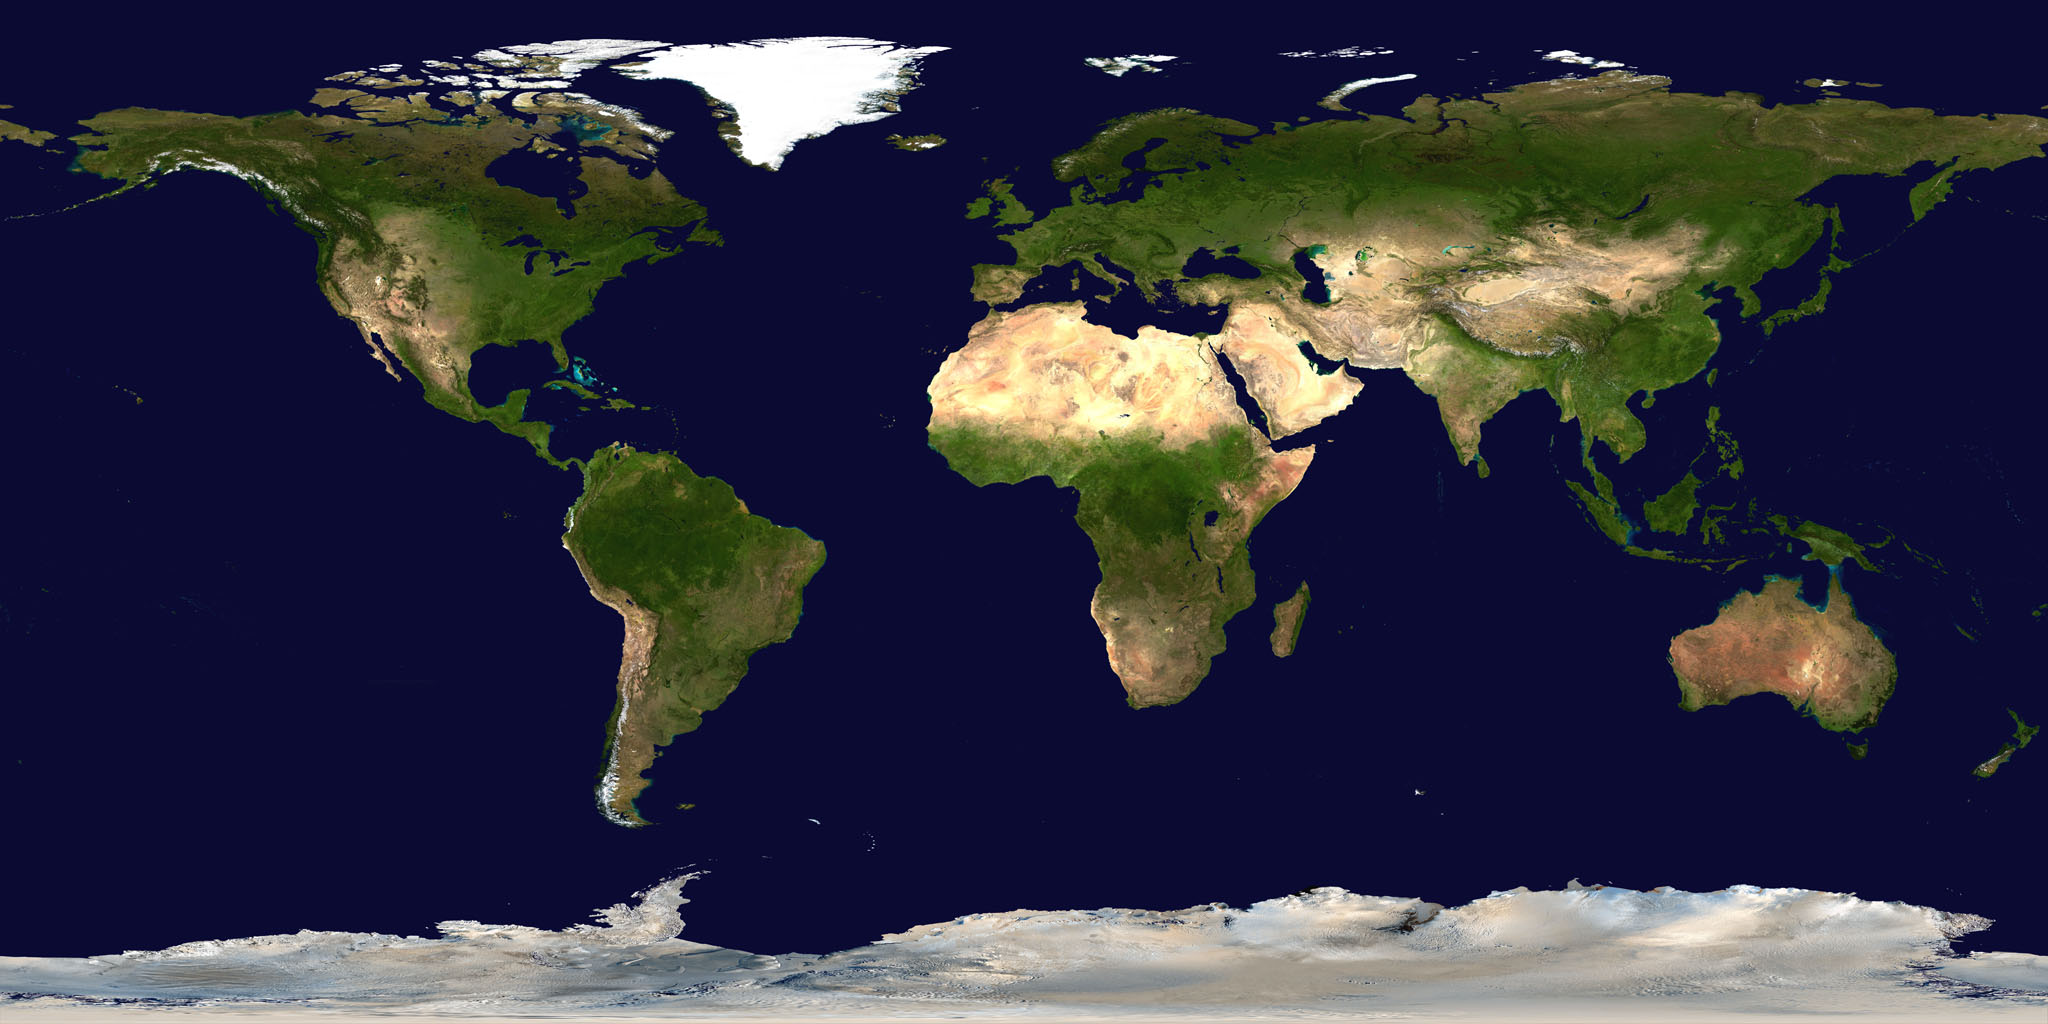
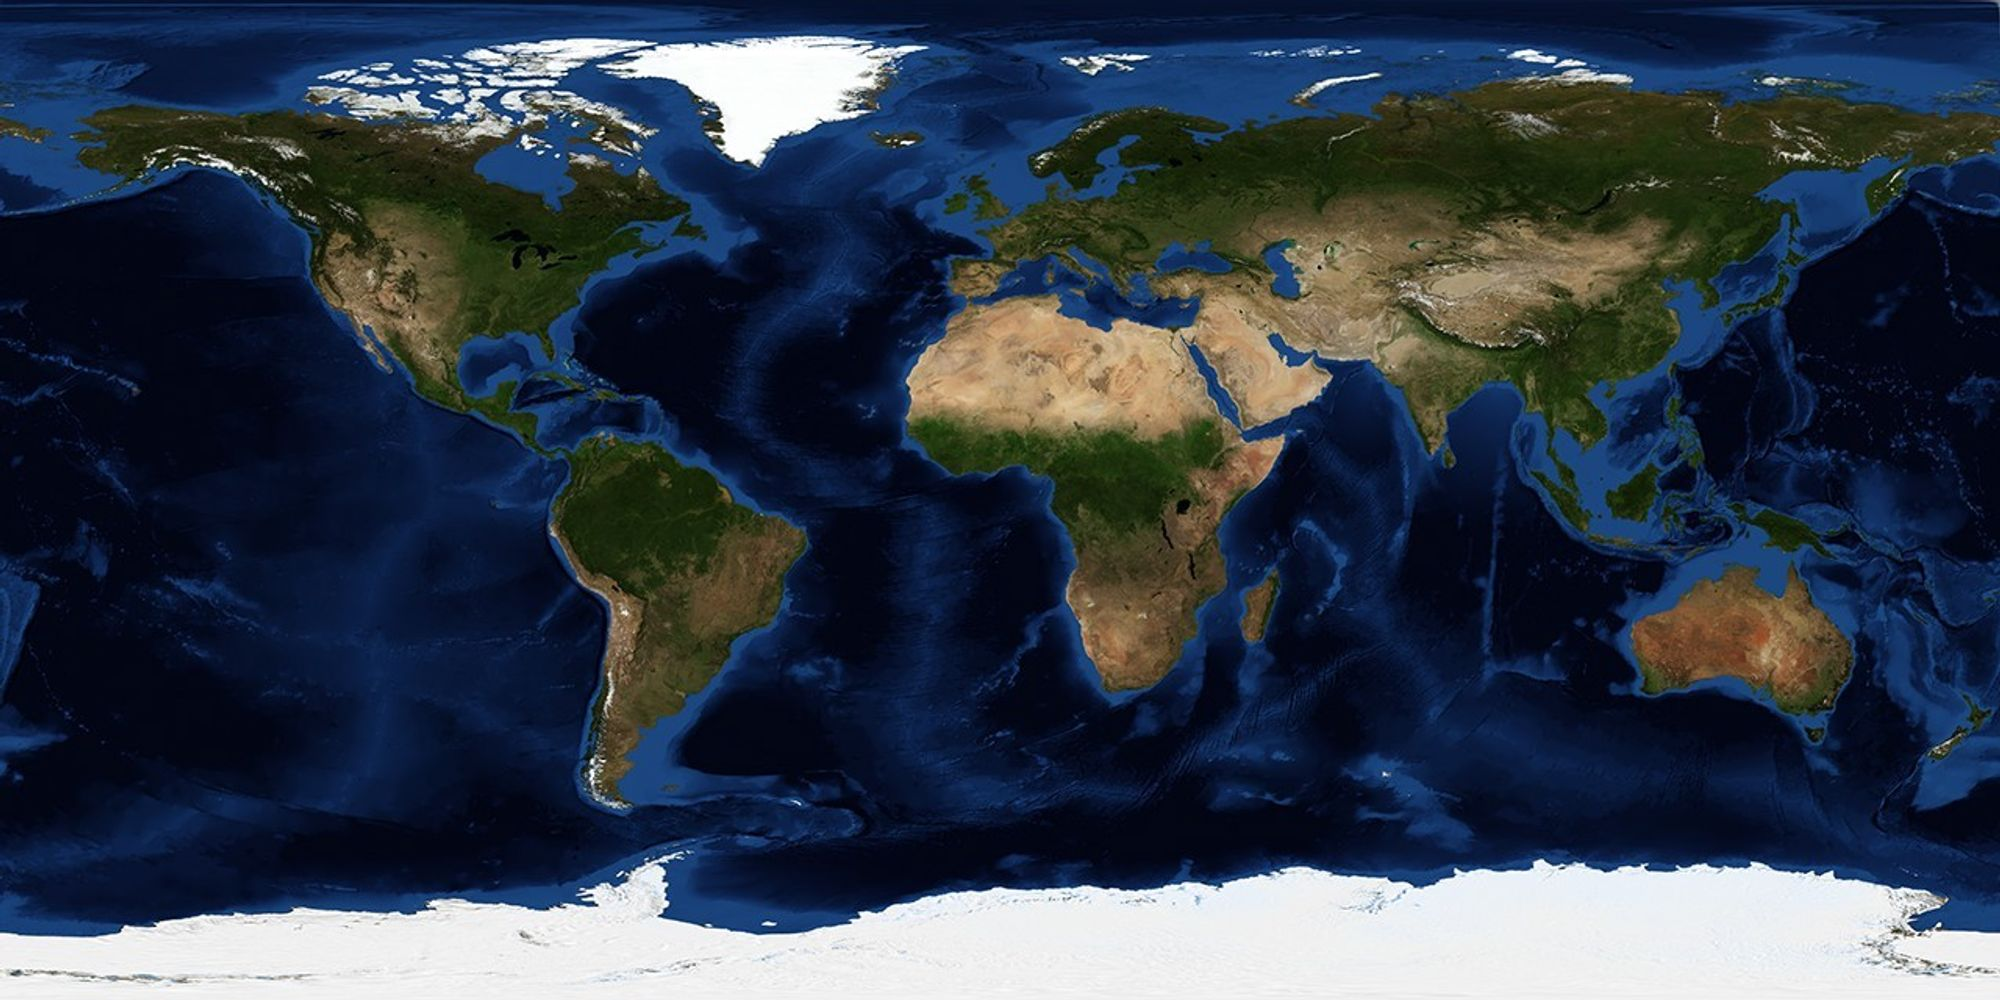
chore: use scripts/verify.ps1 as the verify gate, swap in a more realistic earth texture
- Remove the redundant root-level verify.ps1 from the previous round —
  scripts/verify.ps1 (pub get + gen-l10n + format + analyze + test,
  already in the repo) is the real one.
- Fix a pre-existing trailing-comma lint in
  journal_entry_presentation_sheet_test.dart, unrelated to this round's
  changes but caught by the full verify gate.
- earth_day.jpg swapped for a texture with real bathymetry/terrain
  shading (closer to a satellite-imagery look) — already staged in the
  working tree when this round started; committing it now.

diff --git a/test/widget/journal/journal_entry_presentation_sheet_test.dart b/test/widget/journal/journal_entry_presentation_sheet_test.dart
@@ -114,7 +114,8 @@ void main() {
     expect(find.byType(PageView), findsOneWidget);
   });
 
-  testWidgets('multi-entry: swiping changes the visible entry and fires '
+  testWidgets(
+      'multi-entry: swiping changes the visible entry and fires '
       'onPageChanged', (tester) async {
     int? lastPage;
     await _open<void>(
@@ -152,9 +153,11 @@ void main() {
       entries: [_e('a', summary: 'No photo here')],
       initialIndex: 0,
     );
-    final noPhotoHeight =
-        tester.getSize(find.byType(AnimatedContainer)).height;
-    final screenHeight = MediaQuery.of(tester.element(find.byType(AnimatedContainer))).size.height;
+    final noPhotoHeight = tester.getSize(find.byType(AnimatedContainer)).height;
+    final screenHeight =
+        MediaQuery.of(tester.element(find.byType(AnimatedContainer)))
+            .size
+            .height;
 
     // Photo-less should be ~0.4 of screen height
     expect(noPhotoHeight, closeTo(screenHeight * 0.4, 1));
@@ -191,7 +194,10 @@ void main() {
     await tester.pump();
 
     final photoHeight = tester.getSize(find.byType(AnimatedContainer)).height;
-    final photoScreenHeight = MediaQuery.of(tester.element(find.byType(AnimatedContainer))).size.height;
+    final photoScreenHeight =
+        MediaQuery.of(tester.element(find.byType(AnimatedContainer)))
+            .size
+            .height;
 
     // Photo entry should be ~0.7 of screen height
     expect(photoHeight, closeTo(photoScreenHeight * 0.7, 1));
@@ -206,7 +212,11 @@ void main() {
 
   testWidgets('Edit closes the sheet and opens the entry form pre-filled',
       (tester) async {
-    await _open<void>(tester, entries: [_e('a', summary: 'Edit me')], initialIndex: 0);
+    await _open<void>(
+      tester,
+      entries: [_e('a', summary: 'Edit me')],
+      initialIndex: 0,
+    );
 
     await tester.tap(find.byIcon(Icons.more_vert));
     await tester.pumpAndSettle();
@@ -219,7 +229,8 @@ void main() {
     expect(find.text('Edit me'), findsOneWidget); // pre-filled summary field
   });
 
-  testWidgets('Delete, after confirming, removes the entry and closes the sheet',
+  testWidgets(
+      'Delete, after confirming, removes the entry and closes the sheet',
       (tester) async {
     final repo = FakeJournalRepository([_e('a')]);
     await _open<void>(tester, entries: [_e('a')], initialIndex: 0, repo: repo);

diff --git a/lib/features/journal/presentation/journal_entry_presentation_sheet.dart b/lib/features/journal/presentation/journal_entry_presentation_sheet.dart
@@ -177,7 +177,9 @@ class _JournalEntryPresentationViewState
                         ),
                         decoration: BoxDecoration(
                           shape: BoxShape.circle,
-                          color: i == _currentPage ? colors.accent : colors.hairline,
+                          color: i == _currentPage
+                              ? colors.accent
+                              : colors.hairline,
                         ),
                       ),
                   ],
@@ -352,8 +354,8 @@ class _JournalEntryPresentationPageState
                       const SizedBox(height: 4),
                       Text(
                         placeName,
-                        style:
-                            AppTextStyles.title.copyWith(color: colors.inkPrimary),
+                        style: AppTextStyles.title
+                            .copyWith(color: colors.inkPrimary),
                       ),
                     ],
                     const SizedBox(height: 12),

diff --git a/test/widget/journal/journal_photo_viewer_test.dart b/test/widget/journal/journal_photo_viewer_test.dart
@@ -45,7 +45,8 @@ Future<void> _warmImageCache(File file) {
 }
 
 void main() {
-  testWidgets('opens a full-screen PhotoViewGallery at the given index, '
+  testWidgets(
+      'opens a full-screen PhotoViewGallery at the given index, '
       'reports page changes, and closes on tap', (tester) async {
     final dir = Directory.systemTemp.createTempSync('journal_photo_viewer');
     addTearDown(() {
@@ -57,10 +58,8 @@ void main() {
         // OS cleans up temp dirs — don't fail the test over a lock.
       }
     });
-    final photoA = File('${dir.path}/a.png')
-      ..writeAsBytesSync(_pngBytes);
-    final photoB = File('${dir.path}/b.png')
-      ..writeAsBytesSync(_pngBytes);
+    final photoA = File('${dir.path}/a.png')..writeAsBytesSync(_pngBytes);
+    final photoB = File('${dir.path}/b.png')..writeAsBytesSync(_pngBytes);
     final photos = [
       JournalPhoto(id: 'p1', filePath: photoA.path),
       JournalPhoto(id: 'p2', filePath: photoB.path),

diff --git a/lib/features/journal/data/journal_tables.dart b/lib/features/journal/data/journal_tables.dart
@@ -8,6 +8,7 @@ class JournalEntries extends Table {
   TextColumn get id => text()();
   TextColumn get tripId =>
       text().references(Trips, #id, onDelete: KeyAction.cascade)();
+
   /// min: 0, not 1 — entries auto-created by markPlaceVisited (a place
   /// marked visited outside the journal) start with an empty summary,
   /// shown as "Not written yet" until the user fills it in. The manual

diff --git a/test/widget/journal/journal_entry_form_sheet_test.dart b/test/widget/journal/journal_entry_form_sheet_test.dart
@@ -50,7 +50,8 @@ Future<FakeJournalRepository> _pump(WidgetTester tester) async {
 }
 
 void main() {
-  testWidgets('saving without a summary creates the entry with an empty '
+  testWidgets(
+      'saving without a summary creates the entry with an empty '
       'summary', (tester) async {
     final repo = await _pump(tester);
     await tester.tap(find.text('Save'));
